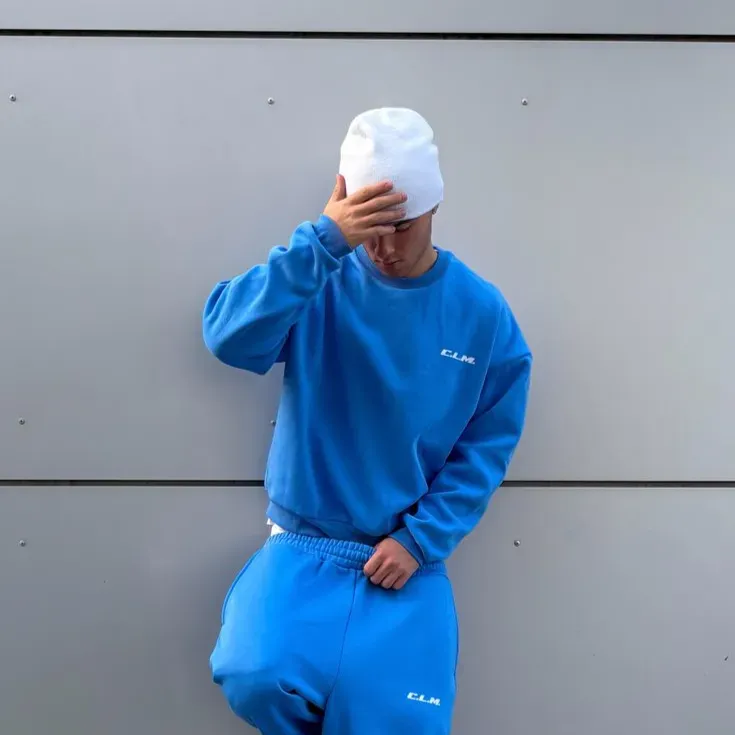
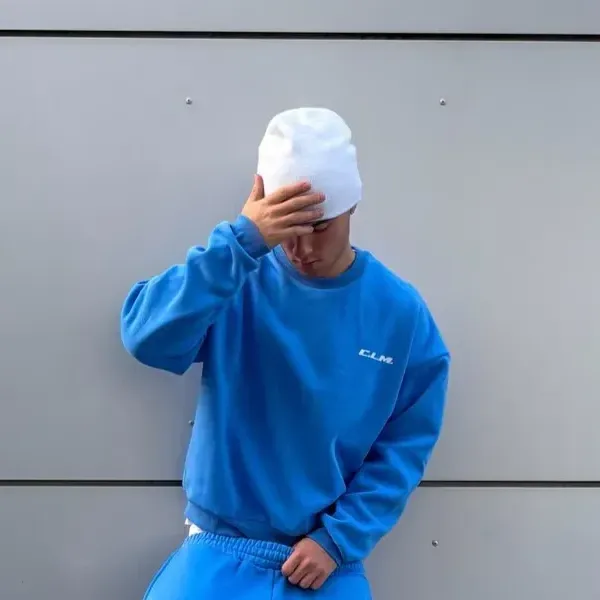
Frame the team pair portraits in CSS so the prerender carries them
The Wizzard and Lacy tile aimed itself from a style prop set after mount,
because prerender.mjs rejects inline styles under style-src 'self'. So
dist/routes/team.html shipped with no transform at all: both halves painted
unzoomed and unaimed, then snapped into place on hydration.

The transforms are now two rules in index.css, which the CSP allows and the
prerendered markup can carry, and PairAvatar drops the state and the effect.

The framing was wrong as well. Wizzard's focal pointed at 0.36, which is his
chest rather than his face, and the aim clamp could not reach Lacy's 0.4 at
140% zoom -- it settled at 50% instead of 67% and the diagonal cut through
the left of her goggles. Lacy only needed the focal corrected. Wizzard was a
full-body shot whose head came out a third the size of hers, so he is
recropped to 600x600 around it; the manifest picks up the new widths.

diff --git a/src/pages/TeamPage.jsx b/src/pages/TeamPage.jsx
@@ -59,14 +59,13 @@ const COLUMNS = {
   4: 'grid-cols-1 sm:grid-cols-2 md:grid-cols-4',
 };
 
-function Portrait({ person, sizes, className = '', style, eager = false }) {
+function Portrait({ person, sizes, className = '', eager = false }) {
   const [failed, setFailed] = React.useState(false);
   const showImage = Boolean(person.avatar) && !failed;
 
   return (
     <div
       className={`overflow-hidden bg-[#0f0f14] flex items-center justify-center ${className}`}
-      style={style}
     >
       {showImage ? (
         <ResponsiveImage
@@ -92,33 +91,15 @@ function Portrait({ person, sizes, className = '', style, eager = false }) {
 const DIAGONAL = [
   {
     cut: 'cut-top-left',
-    centre: [33, 33],
     label: 'top-4 left-4',
   },
   {
     cut: 'cut-bottom-right',
-    centre: [67, 67],
     label: 'bottom-4 right-4',
   },
 ];
 
-const PAIR_ZOOM = 140;
-
-function aim(focal = [0.5, 0.5], centre) {
-  const offset = (fraction, target) =>
-    Math.min(0, Math.max(100 - PAIR_ZOOM, target - PAIR_ZOOM * fraction));
-
-  return {
-    transformOrigin: '0 0',
-    transform: `translate(${offset(focal[0], centre[0])}%, ${offset(focal[1], centre[1])}%) scale(${PAIR_ZOOM / 100})`,
-  };
-}
-
 function PairAvatar({ people, eager = false }) {
-  const [aimed, setAimed] = React.useState(false);
-
-  React.useEffect(() => setAimed(true), []);
-
   return (
     <div className="relative w-full aspect-square overflow-hidden bg-[#0f0f14]">
       {people.slice(0, 2).map((person, i) => {
@@ -129,8 +110,7 @@ function PairAvatar({ people, eager = false }) {
               person={person}
               eager={eager && i === 0}
               sizes="(min-width: 768px) 480px, (min-width: 640px) 70vw, 140vw"
-              className="absolute inset-0"
-              style={aimed ? aim(person.focal, cut.centre) : undefined}
+              className={`absolute inset-0 ${person.aim ?? ''}`}
             />
           </div>
         );

diff --git a/src/content/imageManifest.js b/src/content/imageManifest.js
@@ -200,34 +200,26 @@ export const IMAGE_MANIFEST = {
     ]
   },
   "/team/wizzard.webp": {
-    "width": 735,
-    "height": 735,
+    "width": 600,
+    "height": 600,
     "avif": [
       {
-        "url": "/img/wizzard-400w.794e22c1.avif",
+        "url": "/img/wizzard-400w.48f7fc46.avif",
         "w": 400
       },
       {
-        "url": "/img/wizzard-640w.7b1c2e3a.avif",
-        "w": 640
-      },
-      {
-        "url": "/img/wizzard-735w.c3c5f205.avif",
-        "w": 735
+        "url": "/img/wizzard-600w.2c4b7b69.avif",
+        "w": 600
       }
     ],
     "webp": [
       {
-        "url": "/img/wizzard-400w.112a02e3.webp",
+        "url": "/img/wizzard-400w.3de6c209.webp",
         "w": 400
       },
       {
-        "url": "/img/wizzard-640w.7977e184.webp",
-        "w": 640
-      },
-      {
-        "url": "/img/wizzard-735w.15e5c197.webp",
-        "w": 735
+        "url": "/img/wizzard-600w.049bc5cd.webp",
+        "w": 600
       }
     ]
   },

diff --git a/src/content/team.js b/src/content/team.js
@@ -38,9 +38,13 @@ export const TEAM = [
     name: 'Wizzard & Lacy',
     role: 'Developers',
     focus: 'General development work across the projects we take on',
+    // `focal` is where the subject's face sits in the source image, as a
+    // fraction of its width and height. `aim` is the CSS class derived from it
+    // (see .pair-aim-* in index.css) — the transform has to live in a real
+    // stylesheet because the site's CSP is style-src 'self'.
     people: [
-      { name: 'Wizzard', avatar: '/team/wizzard.webp', focal: [0.5, 0.36] },
-      { name: 'Lacy', avatar: '/team/lacy.webp', focal: [0.4, 0.52] },
+      { name: 'Wizzard', avatar: '/team/wizzard.webp', focal: [0.5, 0.33], aim: 'pair-aim-wizzard' },
+      { name: 'Lacy', avatar: '/team/lacy.webp', focal: [0.34, 0.5], aim: 'pair-aim-lacy' },
     ],
     github: '',
     site: '',

diff --git a/src/index.css b/src/index.css
@@ -421,6 +421,25 @@
   clip-path: polygon(100% 0, 100% 100%, 0 100%);
 }
 
+/* Team pair tile: zoom each portrait 140% and slide it so the subject's face
+   lands on the centroid of its triangle — (33%, 33%) top-left, (67%, 67%)
+   bottom-right. Offset is clamp(centroid - 140 * focal, -40%, 0), the -40%
+   floor being as far as a 140% image can travel before it stops covering.
+   These live here rather than in a style prop because the CSP is
+   style-src 'self' and prerender.mjs rejects inline styles in the markup. */
+.pair-aim-wizzard,
+.pair-aim-lacy {
+  transform-origin: 0 0;
+}
+
+.pair-aim-wizzard {
+  transform: translate(-37%, -13.2%) scale(1.4);
+}
+
+.pair-aim-lacy {
+  transform: translate(0%, -3%) scale(1.4);
+}
+
 @media (prefers-reduced-motion: reduce) {
   .lab-bar {
     transition: none;
